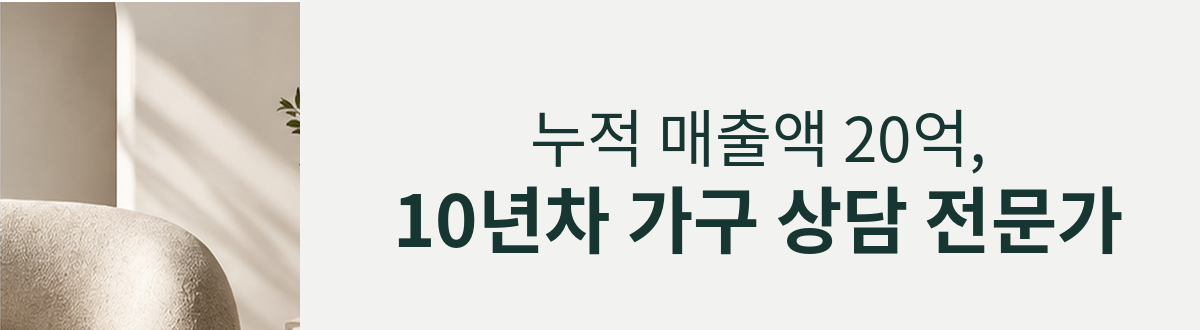
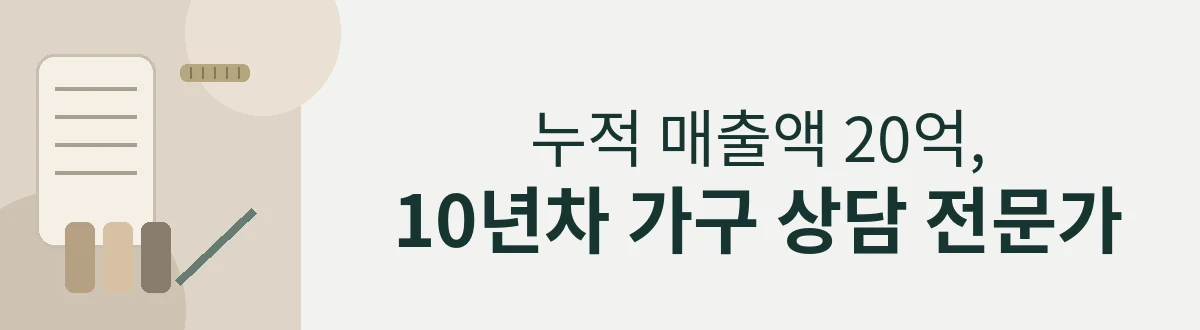
Add files via upload

Changed region(s): [[0.0, 0.0, 0.3083, 1.0]]

diff --git a/junghyun/card-v27.html b/junghyun/card-v27.html
@@ -734,17 +734,17 @@
   <meta property="og:title" content="김정현 대리 | 일룸 롯데메종동부산점">
   <meta property="og:description" content="고객님의 이야기를 듣고, 생활에 맞는 공간을 함께 완성하겠습니다.">
   <meta property="og:url" content="https://kcd6201-source.github.io/mobile-card/junghyun/card-v27.html">
-  <meta property="og:image" content="https://kcd6201-source.github.io/mobile-card/junghyun/preview-v30.jpg">
-  <meta property="og:image:secure_url" content="https://kcd6201-source.github.io/mobile-card/junghyun/preview-v30.jpg">
+  <meta property="og:image" content="https://kcd6201-source.github.io/mobile-card/junghyun/preview-v31.jpg">
+  <meta property="og:image:secure_url" content="https://kcd6201-source.github.io/mobile-card/junghyun/preview-v31.jpg">
   <meta property="og:image:type" content="image/jpeg">
   <meta property="og:image:width" content="1200">
   <meta property="og:image:height" content="630">
-  <link rel="image_src" href="https://kcd6201-source.github.io/mobile-card/junghyun/preview-v30.jpg">
-  <meta itemprop="image" content="https://kcd6201-source.github.io/mobile-card/junghyun/preview-v30.jpg">
+  <link rel="image_src" href="https://kcd6201-source.github.io/mobile-card/junghyun/preview-v31.jpg">
+  <meta itemprop="image" content="https://kcd6201-source.github.io/mobile-card/junghyun/preview-v31.jpg">
   <meta name="twitter:card" content="summary_large_image">
   <meta name="twitter:title" content="김정현 대리 | 일룸 롯데메종동부산점">
   <meta name="twitter:description" content="고객님의 이야기를 듣고, 생활에 맞는 공간을 함께 완성하겠습니다.">
-  <meta name="twitter:image" content="https://kcd6201-source.github.io/mobile-card/junghyun/preview-v30.jpg">
+  <meta name="twitter:image" content="https://kcd6201-source.github.io/mobile-card/junghyun/preview-v31.jpg">
 
 </head>
 

diff --git a/kangmin/card-v27.html b/kangmin/card-v27.html
@@ -734,17 +734,17 @@
   <meta property="og:title" content="손강민 전임 | 일룸 롯데메종동부산점">
   <meta property="og:description" content="우리와 함께 보다 의미있고 다채로운 매일을 만들어보세요.">
   <meta property="og:url" content="https://kcd6201-source.github.io/mobile-card/kangmin/card-v27.html">
-  <meta property="og:image" content="https://kcd6201-source.github.io/mobile-card/kangmin/preview-v30.jpg">
-  <meta property="og:image:secure_url" content="https://kcd6201-source.github.io/mobile-card/kangmin/preview-v30.jpg">
+  <meta property="og:image" content="https://kcd6201-source.github.io/mobile-card/kangmin/preview-v31.jpg">
+  <meta property="og:image:secure_url" content="https://kcd6201-source.github.io/mobile-card/kangmin/preview-v31.jpg">
   <meta property="og:image:type" content="image/jpeg">
   <meta property="og:image:width" content="1200">
   <meta property="og:image:height" content="630">
-  <link rel="image_src" href="https://kcd6201-source.github.io/mobile-card/kangmin/preview-v30.jpg">
-  <meta itemprop="image" content="https://kcd6201-source.github.io/mobile-card/kangmin/preview-v30.jpg">
+  <link rel="image_src" href="https://kcd6201-source.github.io/mobile-card/kangmin/preview-v31.jpg">
+  <meta itemprop="image" content="https://kcd6201-source.github.io/mobile-card/kangmin/preview-v31.jpg">
   <meta name="twitter:card" content="summary_large_image">
   <meta name="twitter:title" content="손강민 전임 | 일룸 롯데메종동부산점">
   <meta name="twitter:description" content="우리와 함께 보다 의미있고 다채로운 매일을 만들어보세요.">
-  <meta name="twitter:image" content="https://kcd6201-source.github.io/mobile-card/kangmin/preview-v30.jpg">
+  <meta name="twitter:image" content="https://kcd6201-source.github.io/mobile-card/kangmin/preview-v31.jpg">
 
 </head>
 

diff --git a/jongyoung/card-v27.html b/jongyoung/card-v27.html
@@ -734,17 +734,17 @@
   <meta property="og:title" content="박종영 대리 | 일룸 롯데메종동부산점">
   <meta property="og:description" content="고객님만의 특별한 공간을 만들어 드리겠습니다.">
   <meta property="og:url" content="https://kcd6201-source.github.io/mobile-card/jongyoung/card-v27.html">
-  <meta property="og:image" content="https://kcd6201-source.github.io/mobile-card/jongyoung/preview-v30.jpg">
-  <meta property="og:image:secure_url" content="https://kcd6201-source.github.io/mobile-card/jongyoung/preview-v30.jpg">
+  <meta property="og:image" content="https://kcd6201-source.github.io/mobile-card/jongyoung/preview-v31.jpg">
+  <meta property="og:image:secure_url" content="https://kcd6201-source.github.io/mobile-card/jongyoung/preview-v31.jpg">
   <meta property="og:image:type" content="image/jpeg">
   <meta property="og:image:width" content="1200">
   <meta property="og:image:height" content="630">
-  <link rel="image_src" href="https://kcd6201-source.github.io/mobile-card/jongyoung/preview-v30.jpg">
-  <meta itemprop="image" content="https://kcd6201-source.github.io/mobile-card/jongyoung/preview-v30.jpg">
+  <link rel="image_src" href="https://kcd6201-source.github.io/mobile-card/jongyoung/preview-v31.jpg">
+  <meta itemprop="image" content="https://kcd6201-source.github.io/mobile-card/jongyoung/preview-v31.jpg">
   <meta name="twitter:card" content="summary_large_image">
   <meta name="twitter:title" content="박종영 대리 | 일룸 롯데메종동부산점">
   <meta name="twitter:description" content="고객님만의 특별한 공간을 만들어 드리겠습니다.">
-  <meta name="twitter:image" content="https://kcd6201-source.github.io/mobile-card/jongyoung/preview-v30.jpg">
+  <meta name="twitter:image" content="https://kcd6201-source.github.io/mobile-card/jongyoung/preview-v31.jpg">
 
 </head>
 

diff --git a/seokbae/card-v27.html b/seokbae/card-v27.html
@@ -734,17 +734,17 @@
   <meta property="og:title" content="서석배 팀장 | 일룸 롯데메종동부산점">
   <meta property="og:description" content="공간에 대한 고민까지 제대로 풀어드리겠습니다.">
   <meta property="og:url" content="https://kcd6201-source.github.io/mobile-card/seokbae/card-v27.html">
-  <meta property="og:image" content="https://kcd6201-source.github.io/mobile-card/seokbae/preview-v30.jpg">
-  <meta property="og:image:secure_url" content="https://kcd6201-source.github.io/mobile-card/seokbae/preview-v30.jpg">
+  <meta property="og:image" content="https://kcd6201-source.github.io/mobile-card/seokbae/preview-v31.jpg">
+  <meta property="og:image:secure_url" content="https://kcd6201-source.github.io/mobile-card/seokbae/preview-v31.jpg">
   <meta property="og:image:type" content="image/jpeg">
   <meta property="og:image:width" content="1200">
   <meta property="og:image:height" content="630">
-  <link rel="image_src" href="https://kcd6201-source.github.io/mobile-card/seokbae/preview-v30.jpg">
-  <meta itemprop="image" content="https://kcd6201-source.github.io/mobile-card/seokbae/preview-v30.jpg">
+  <link rel="image_src" href="https://kcd6201-source.github.io/mobile-card/seokbae/preview-v31.jpg">
+  <meta itemprop="image" content="https://kcd6201-source.github.io/mobile-card/seokbae/preview-v31.jpg">
   <meta name="twitter:card" content="summary_large_image">
   <meta name="twitter:title" content="서석배 팀장 | 일룸 롯데메종동부산점">
   <meta name="twitter:description" content="공간에 대한 고민까지 제대로 풀어드리겠습니다.">
-  <meta name="twitter:image" content="https://kcd6201-source.github.io/mobile-card/seokbae/preview-v30.jpg">
+  <meta name="twitter:image" content="https://kcd6201-source.github.io/mobile-card/seokbae/preview-v31.jpg">
 
 </head>
 
